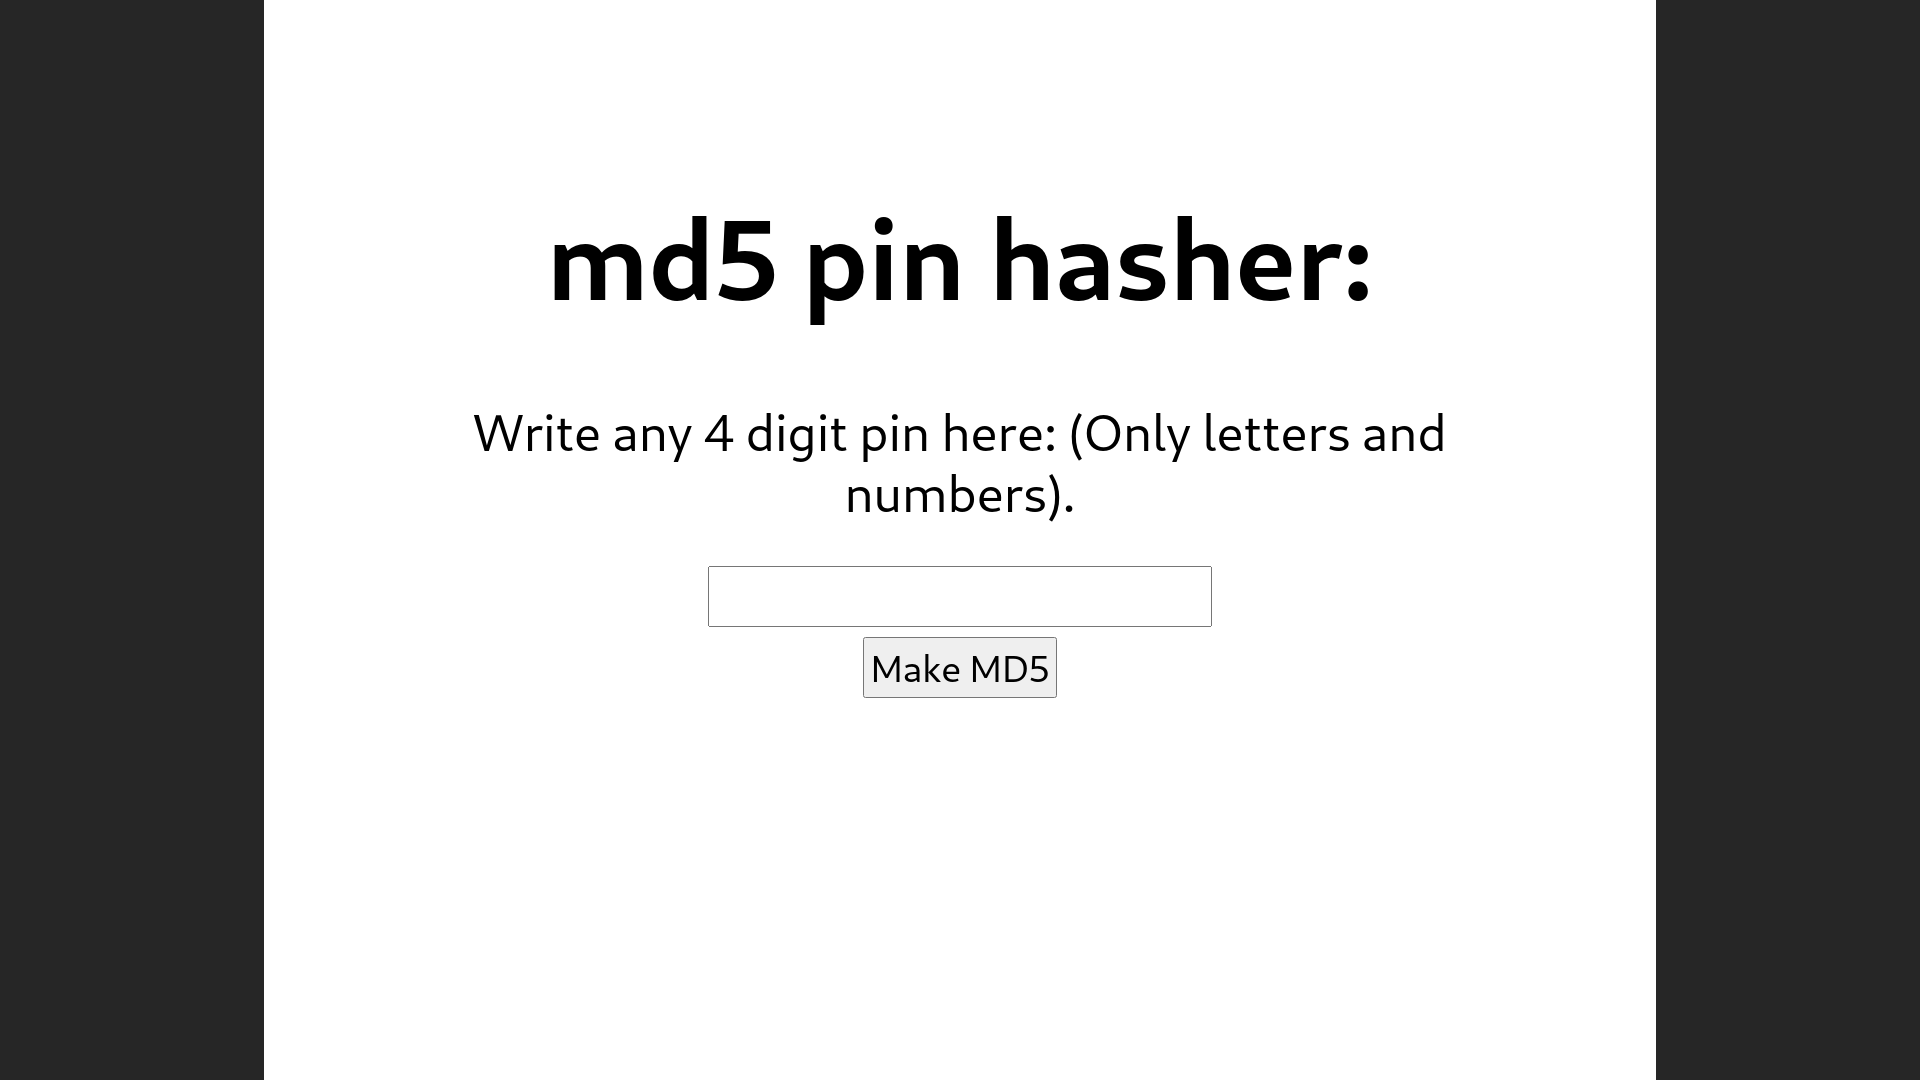
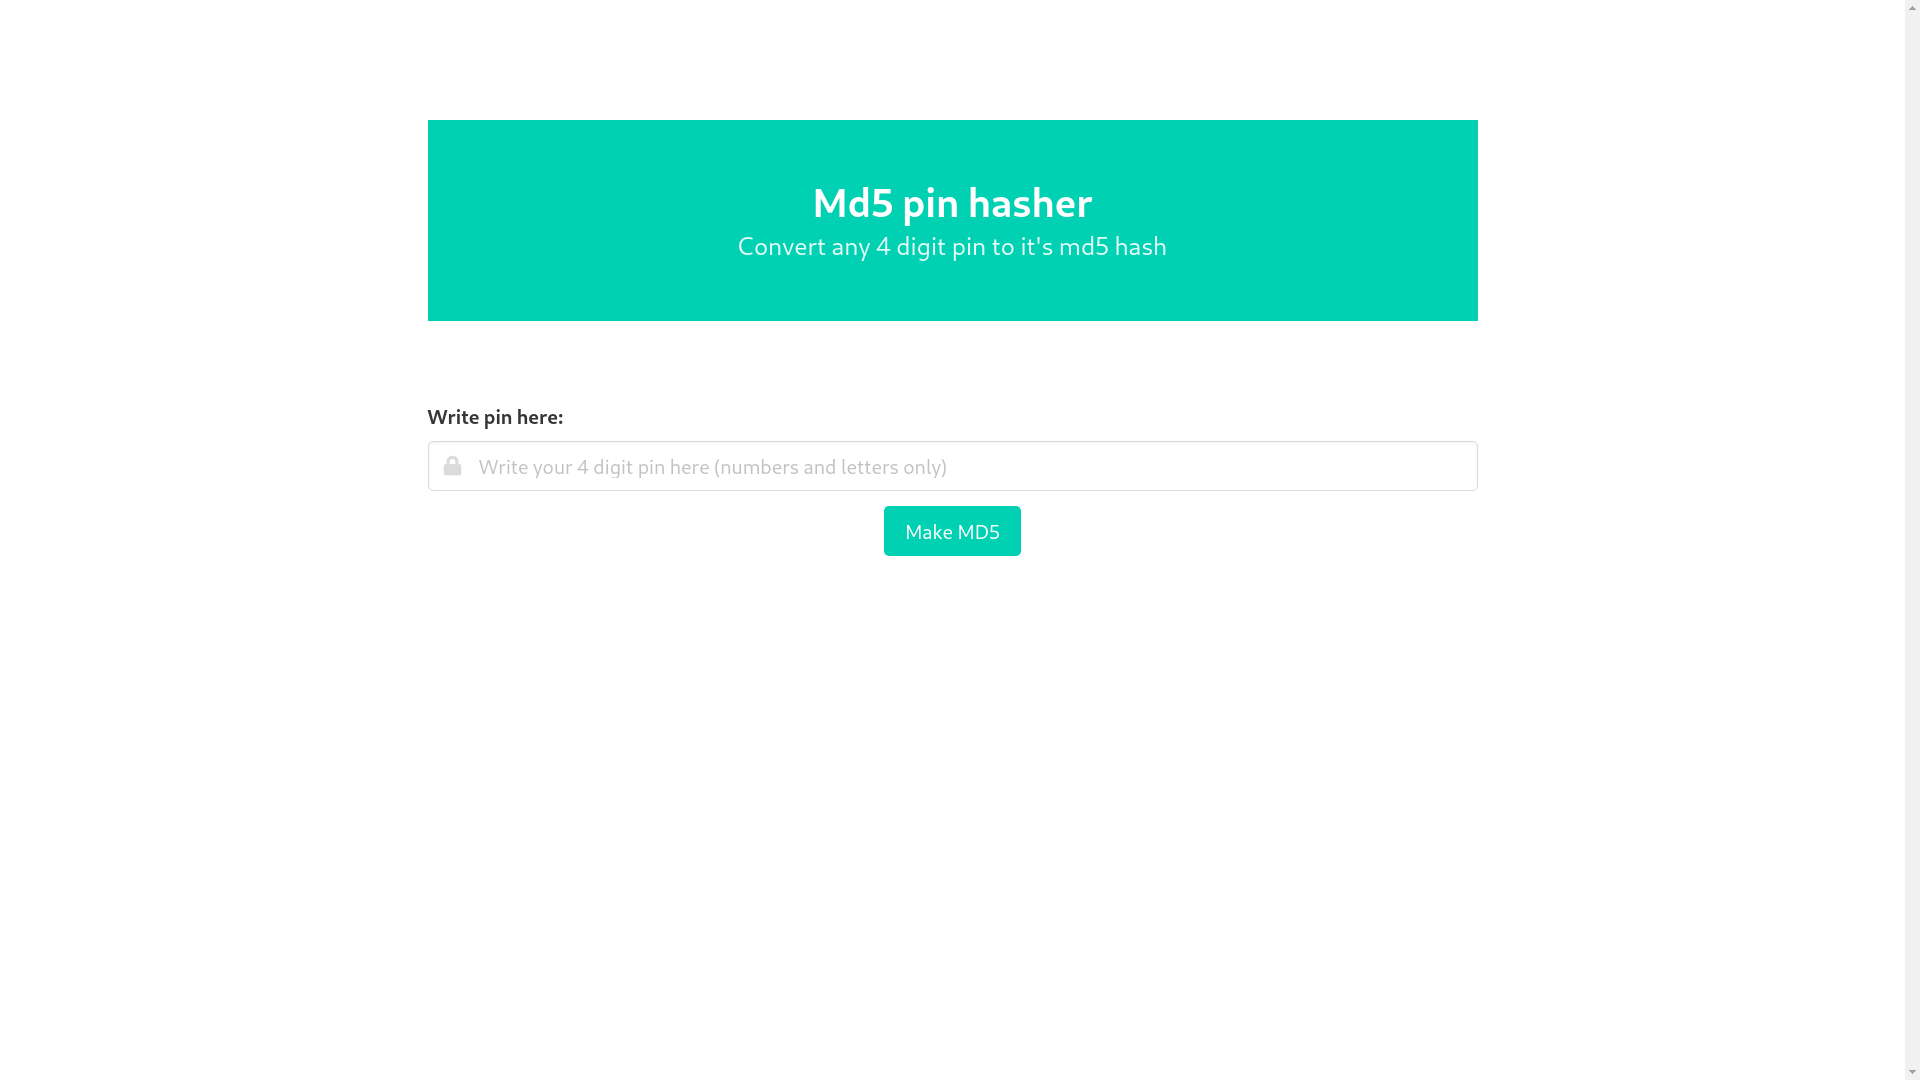
updated hashing project

diff --git a/src/mock/data.js b/src/mock/data.js
@@ -42,8 +42,8 @@ export const projectsData = [
     title: 'Md5 hashing and cracking',
     info: `A project I made to convert a 4 digit pin to it's md5 hash, then brute force it by checking against all possible options. Written using vanilla JS, it also checks the input and only allows the correct input type.`,
     info2: '',
-    url: 'https://hashing.netlify.app/',
-    repo: 'https://github.com/eamon0989/hashing', // if no repo, the button will not show up
+    url: 'https://md5cracker.netlify.app/',
+    repo: 'https://github.com/eamon0989/bulmapincracker', // if no repo, the button will not show up
   },
   {
     id: nanoid(),
